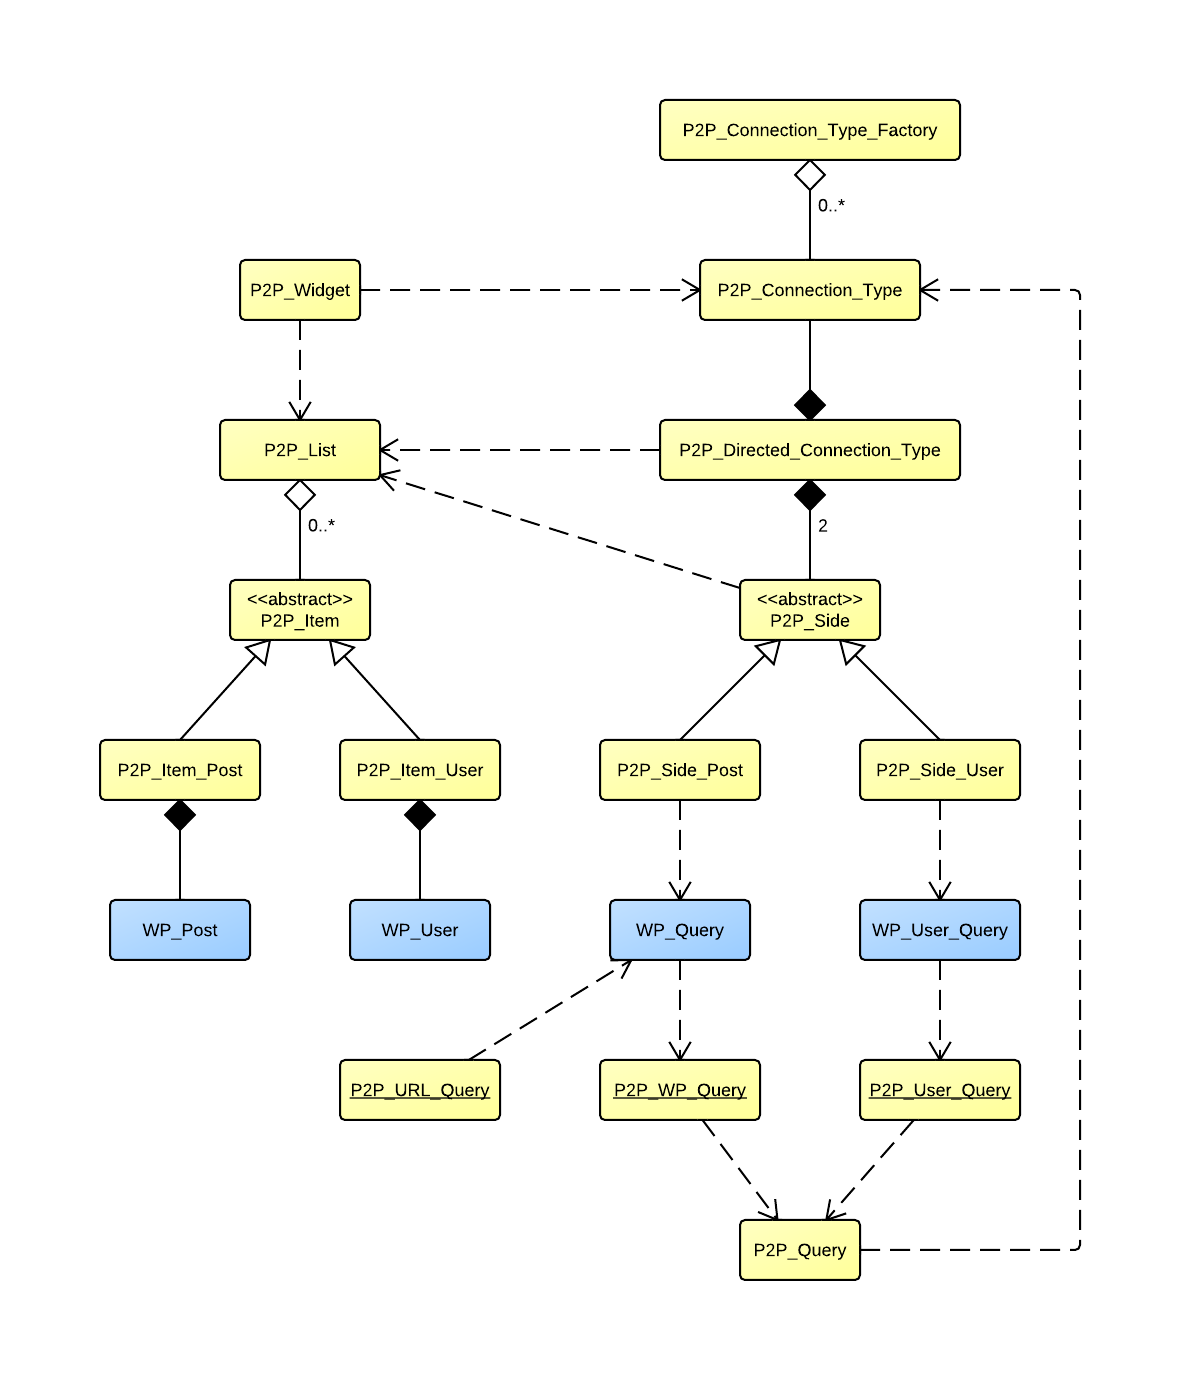
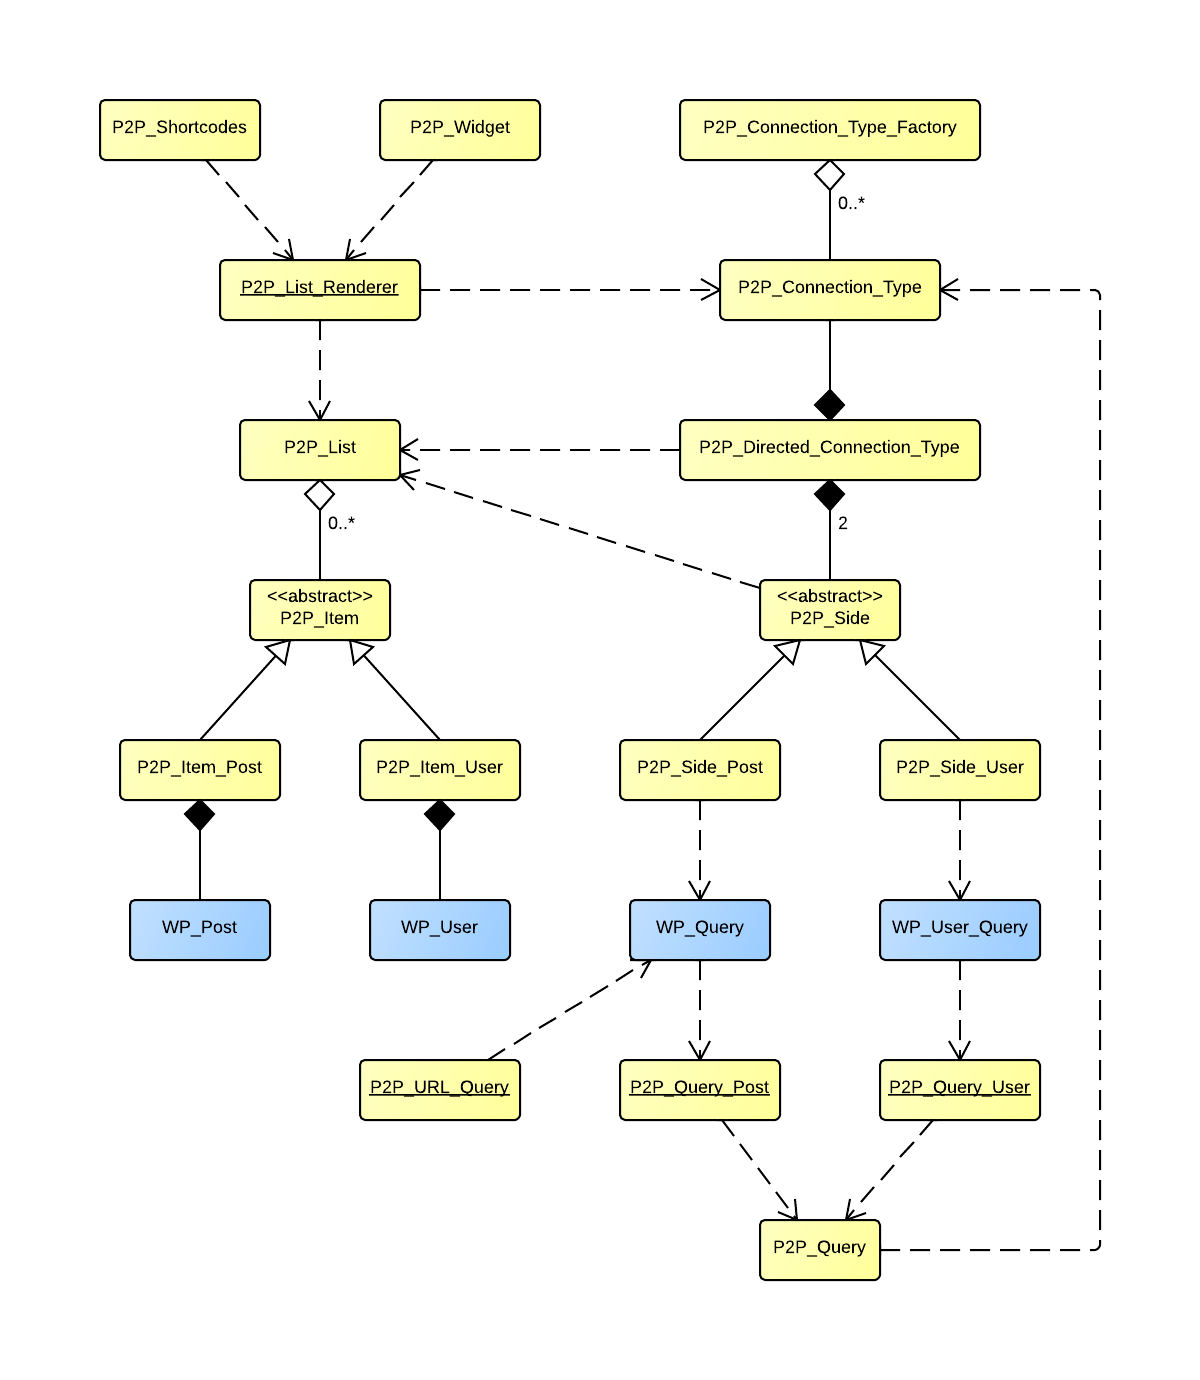
introduce P2P_List_Renderer class
It keeps all the code related to rendering lists of items in one place.

diff --git a/core/list-renderer.php b/core/list-renderer.php
@@ -1,0 +1,101 @@
+<?php
+
+class P2P_List_Renderer {
+
+	static function query_and_render( $args ) {
+		$ctype = p2p_type( $args['ctype'] );
+		if ( !$ctype ) {
+			trigger_error( sprintf( "Unregistered connection type '%s'.", $ctype ), E_USER_WARNING );
+			return '';
+		}
+
+		$directed = $ctype->find_direction( $args['item'] );
+		if ( !$directed )
+			return '';
+
+		$context = $args['context'];
+
+		$extra_qv = array(
+			'p2p:per_page' => -1,
+			'p2p:context' => $context
+		);
+
+		$connected = call_user_func( array( $directed, $args['method'] ), $args['item'], $extra_qv, 'abstract' );
+
+		switch ( $args['mode'] ) {
+		case 'inline':
+			$render_args = array(
+				'separator' => ', '
+			);
+			break;
+
+		case 'ol':
+			$render_args = array(
+				'before_list' => '<ol id="' . $ctype->name . '_list">',
+				'after_list' => '</ol>',
+			);
+			break;
+
+		case 'ul':
+		default:
+			$render_args = array(
+				'before_list' => '<ul id="' . $ctype->name . '_list">',
+				'after_list' => '</ul>',
+			);
+			break;
+		}
+
+		$render_args['echo'] = false;
+
+		$html = self::render( $connected, $render_args );
+
+		return apply_filters( "p2p_{$context}_html", $html, $connected, $directed, $args['mode'] );
+	}
+
+	static function render( $list, $args = array() ) {
+		if ( empty( $list->items ) )
+			return '';
+
+		$args = wp_parse_args( $args, array(
+			'before_list' => '<ul>', 'after_list' => '</ul>',
+			'before_item' => '<li>', 'after_item' => '</li>',
+			'separator' => false,
+			'echo' => true
+		) );
+
+		if ( $args['separator'] ) {
+			if ( '<ul>' == $args['before_list'] )
+				$args['before_list'] = '';
+
+			if ( '</ul>' == $args['after_list'] )
+				$args['after_list'] = '';
+		}
+
+		if ( !$args['echo'] )
+			ob_start();
+
+		echo $args['before_list'];
+
+		if ( $args['separator'] ) {
+			$rendered = array();
+			foreach ( $list->items as $item ) {
+				$rendered[] = self::render_item( $item );
+			}
+			echo implode( $args['separator'], $rendered );
+		} else {
+			foreach ( $list->items as $item ) {
+				echo $args['before_item'] . self::render_item( $item ) . $args['after_item'];
+			}
+		}
+
+		echo $args['after_list'];
+
+		if ( !$args['echo'] )
+			return ob_get_clean();
+	}
+
+	private static function render_item( $item ) {
+		return html_link( $item->get_permalink(), $item->get_title() );
+	}
+}
+

diff --git a/core/util.php b/core/util.php
@@ -123,52 +123,3 @@ function _p2p_get_other_id( $item ) {
 	trigger_error( "Corrupted data for item $inner_item->ID", E_USER_WARNING );
 }
 
-/** @internal */
-function _p2p_get_list( $args ) {
-	$ctype = p2p_type( $args['ctype'] );
-	if ( !$ctype ) {
-		trigger_error( sprintf( "Unregistered connection type '%s'.", $ctype ), E_USER_WARNING );
-		return '';
-	}
-
-	$directed = $ctype->find_direction( $args['item'] );
-	if ( !$directed )
-		return '';
-
-	$context = $args['context'];
-
-	$extra_qv = array(
-		'p2p:per_page' => -1,
-		'p2p:context' => $context
-	);
-
-	$connected = call_user_func( array( $directed, $args['method'] ), $args['item'], $extra_qv, 'abstract' );
-
-	switch ( $args['mode'] ) {
-	case 'inline':
-		$render_args = array(
-			'separator' => ', '
-		);
-		break;
-
-	case 'ol':
-		$render_args = array(
-			'before_list' => '<ol id="' . $ctype->name . '_list">',
-			'after_list' => '</ol>',
-		);
-		break;
-
-	case 'ul':
-	default:
-		$render_args = array(
-			'before_list' => '<ul id="' . $ctype->name . '_list">',
-			'after_list' => '</ul>',
-		);
-		break;
-	}
-
-	$render_args['echo'] = false;
-
-	return apply_filters( "p2p_{$context}_html", $connected->render( $render_args ), $connected, $directed, $args['mode'] );
-}
-

diff --git a/core/list.php b/core/list.php
@@ -14,51 +14,5 @@ class P2P_List {
 			$this->items = _p2p_wrap( $items, $item_type );
 		}
 	}
-
-	function render( $args = array() ) {
-		if ( empty( $this->items ) )
-			return '';
-
-		$args = wp_parse_args( $args, array(
-			'before_list' => '<ul>', 'after_list' => '</ul>',
-			'before_item' => '<li>', 'after_item' => '</li>',
-			'separator' => false,
-			'echo' => true
-		) );
-
-		if ( $args['separator'] ) {
-			if ( '<ul>' == $args['before_list'] )
-				$args['before_list'] = '';
-
-			if ( '</ul>' == $args['after_list'] )
-				$args['after_list'] = '';
-		}
-
-		if ( !$args['echo'] )
-			ob_start();
-
-		echo $args['before_list'];
-
-		if ( $args['separator'] ) {
-			$list = array();
-			foreach ( $this->items as $item ) {
-				$list[] = $this->render_item( $item );
-			}
-			echo implode( $args['separator'], $list );
-		} else {
-			foreach ( $this->items as $item ) {
-				echo $args['before_item'] . $this->render_item( $item ) . $args['after_item'];
-			}
-		}
-
-		echo $args['after_list'];
-
-		if ( !$args['echo'] )
-			return ob_get_clean();
-	}
-
-	protected function render_item( $item ) {
-		return html_link( $item->get_permalink(), $item->get_title() );
-	}
 }
 

diff --git a/tests/test-list.php b/tests/test-list.php
@@ -37,7 +37,7 @@ class P2P_Tests_List extends WP_UnitTestCase {
 	}
 
 	function test_default_output() {
-		$output = self::$list->render( array(
+		$output = P2P_List_Renderer::render( self::$list, array(
 			'echo' => false
 		) );
 
@@ -46,7 +46,7 @@ class P2P_Tests_List extends WP_UnitTestCase {
 	}
 
 	function test_separator_output() {
-		$output = self::$list->render( array(
+		$output = P2P_List_Renderer::render( self::$list, array(
 			'separator' => __FUNCTION__,
 			'echo' => false
 		) );

diff --git a/core/widget.php b/core/widget.php
@@ -59,7 +59,7 @@ class P2P_Widget extends scbWidget {
 	function widget( $args, $instance ) {
 		$instance = array_merge( $this->defaults, $instance );
 
-		$output = _p2p_get_list( array(
+		$output = P2P_List_Renderer::query_and_render( array(
 			'ctype' => $instance['ctype'],
 			'method' => ( 'related' == $instance['listing'] ? 'get_related' : 'get_connected' ),
 			'item' => get_queried_object(),

diff --git a/core/shortcodes.php b/core/shortcodes.php
@@ -23,7 +23,7 @@ class P2P_Shortcodes {
 			'mode' => 'ul',
 		), $attr );
 
-		return _p2p_get_list( array(
+		return P2P_List_Renderer::query_and_render( array(
 			'ctype' => $attr['type'],
 			'method' => $method,
 			'item' => $post,

diff --git a/core/api.php b/core/api.php
@@ -297,7 +297,7 @@ function p2p_list_posts( $posts, $args = array() ) {
 		$list = new P2P_List( $posts, 'P2P_Item_Post' );
 	}
 
-	return $list->render( $args );
+	return P2P_List_Renderer::render( $list, $args );
 }
 
 /**
